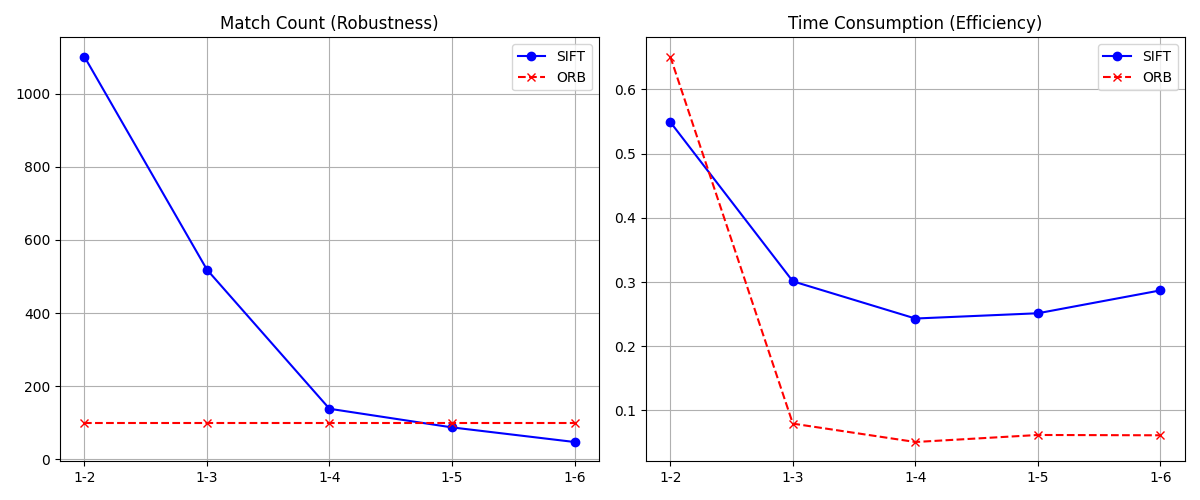
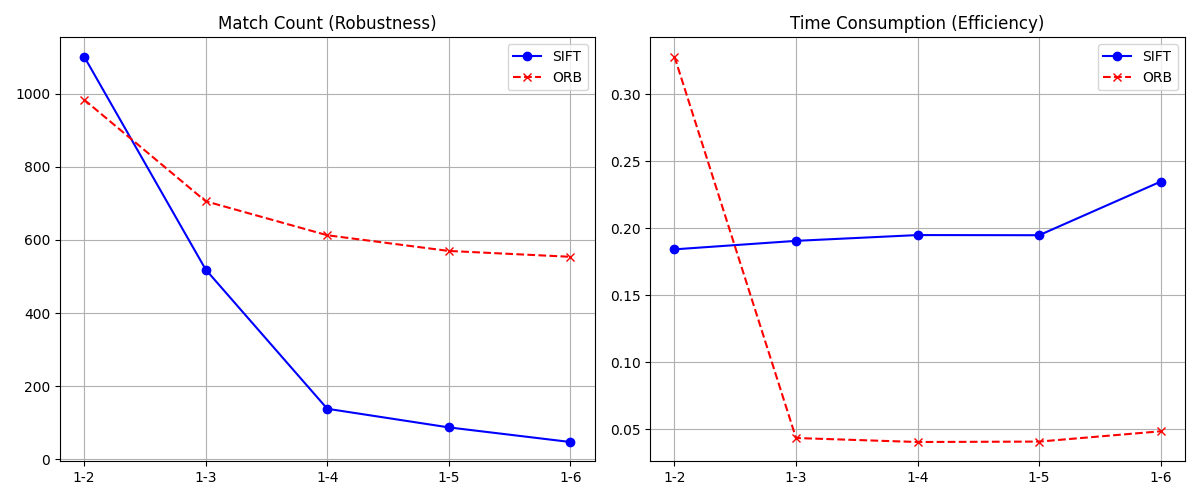
fix: the limit to good matches

diff --git a/assignment_1/main.py b/assignment_1/main.py
@@ -78,8 +78,7 @@ class FeatureMatcher:
             else:
                 bf = cv2.BFMatcher(self.norm_type, crossCheck=True)
                 matches = bf.match(des1, des2)
-                # ORB按距离排序，只取前100个避免画面太乱，或者取全部看效果
-                good_matches = sorted(matches, key=lambda x: x.distance)[:100]
+                good_matches = sorted(matches, key=lambda x: x.distance)
 
         t_total = time.time() - t0
 

diff --git a/assignment_1/report.md b/assignment_1/report.md
@@ -20,9 +20,11 @@ The following chart summarizes the performance of SIFT and ORB in terms of keypo
 
 ![Feature Extraction Comparison](img/diff.png)
 
-In this case, ORB shows bad performance in terms of keypoints detected, no matter the similarity between images. However, ORB is significantly faster than SIFT, making it more suitable for real-time applications where speed is crucial.
+In this case, ORB shows better performance in terms of keypoints detected. And it is significantly faster than SIFT, making it more suitable for real-time applications where speed is crucial.
 
-The performance of SIFT is much better than ORB in terms of keypoints detected, especially when the images are similar. However, SIFT is slower compared to ORB. Especially when the images are less similar, the number of keypoints detected by SIFT decreases, but it still outperforms ORB in general.
+The performance of SIFT is better than ORB in terms of keypoints detected, only when the images are almost the same. Generally, SIFT is slower compared to ORB. When the images are less similar, the number of keypoints detected by SIFT decreases significantly, making it less effective in such scenarios.
+
+Above all, ORB is a more efficient choice for feature extraction in most scenarios, especially when dealing with images that have significant variations.
 
 
 ## Visual Comparison
